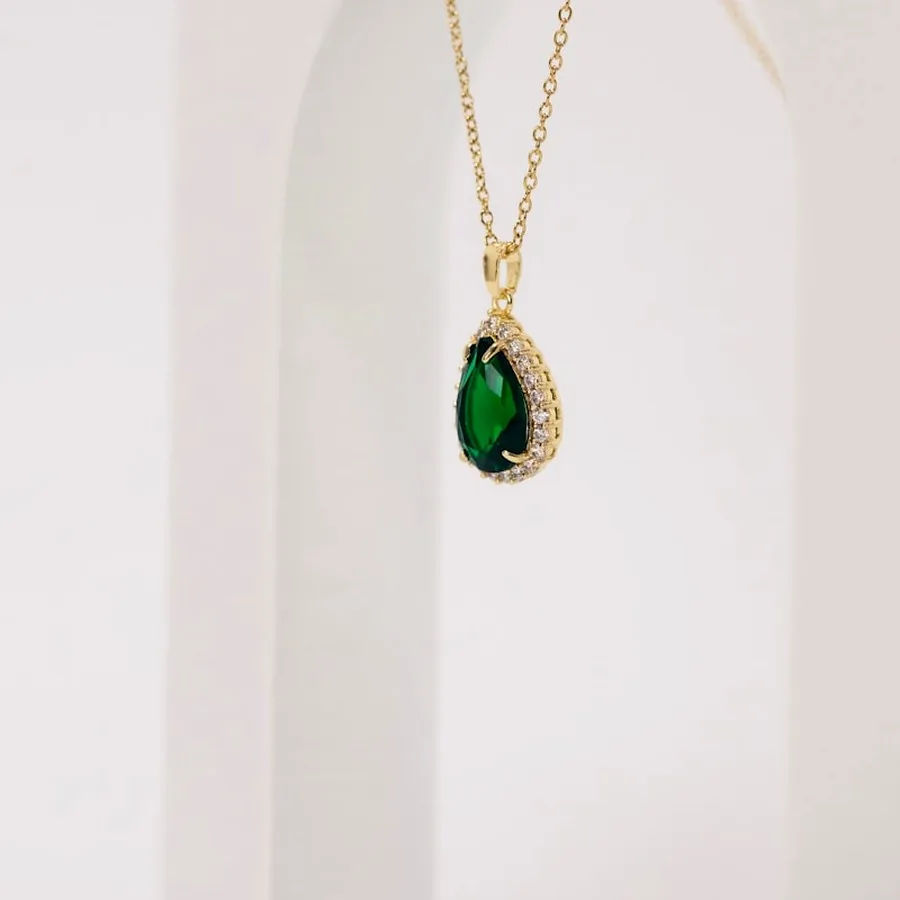
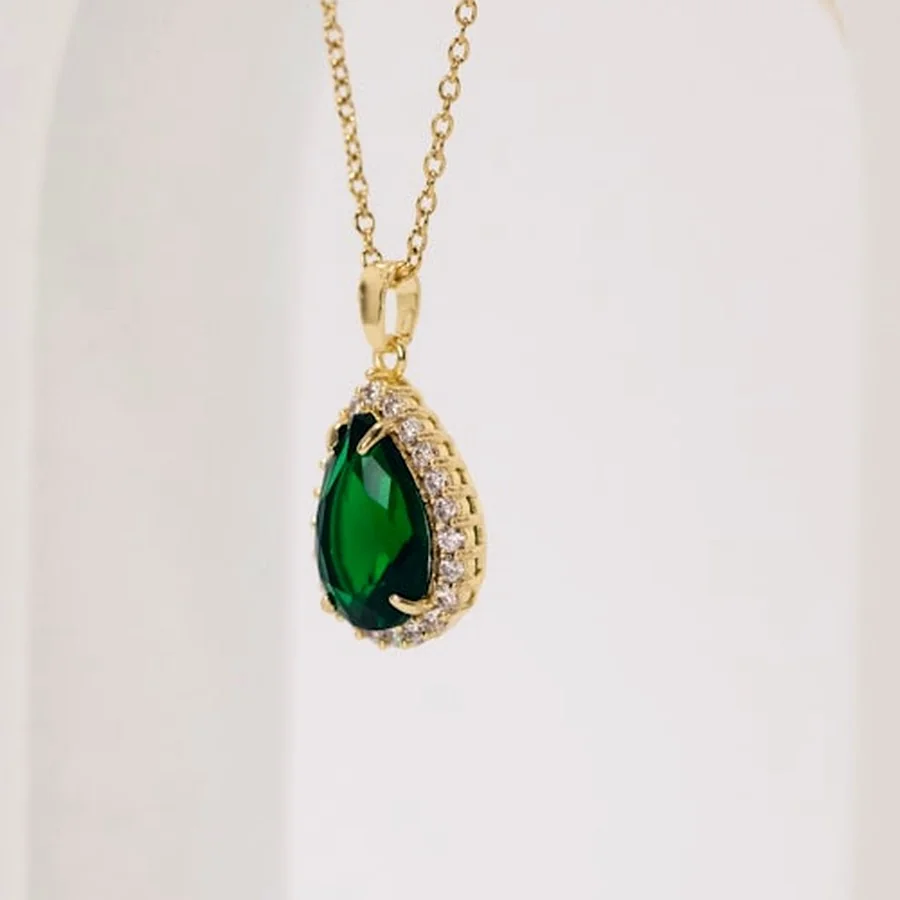
Premium visual refinement pass (no new functionality)
- Hero: tighter, more dramatic crop of the pendant (was lost in empty
  background); subtle reveal animation on load.
- Storytelling: one short emotional line under the Hero, bridging the
  brand promise and the catalog, set in italic display type with a
  small gold rule accent.
- "Ver Detalle": replaced the underlined text-link with a tracked
  label + gold arrow that shifts on hover — reads as an invitation,
  not a blog link.
- "Solicitar Información": border recolored from neutral gray to the
  brand's gold, with a soft hover lift matching the primary button's
  language.
- Logo: extracted a clean icon-only mark (the three emeralds + peaks)
  from the source logo for header/favicon use — the full lockup's
  script and subtext were illegible at that size.
- Fixed an orphaned "·" separator trailing the brand-pillars row.
- Desktop: Home hero now splits into a real two-column layout (copy
  left, large image right) instead of a centered column swimming in
  unused side margins — same generous whitespace rhythm, now put to
  use rather than left empty. Mobile order unaffected (flex `order`
  via a `display:contents` wrapper keeps the original stacked flow).

diff --git a/css/styles.css b/css/styles.css
@@ -69,7 +69,7 @@ input, textarea { font-family: inherit; font-size: 15px; }
   display: flex; align-items: center; justify-content: space-between;
 }
 .brand { display: flex; align-items: center; gap: 10px; }
-.brand-logo { width: 32px; height: 32px; object-fit: contain; border-radius: 50%; }
+.brand-logo { width: 36px; height: 36px; object-fit: contain; border-radius: 7px; }
 .brand-name { font-family: var(--font-display); font-weight: 700; font-size: 17px; color: var(--emerald-dark); }
 
 .top-nav { display: none; gap: 8px; }
@@ -101,39 +101,65 @@ main { max-width: var(--container); margin: 0 auto; padding: 0 22px; }
 .btn {
   display: inline-flex; align-items: center; justify-content: center; gap: 8px;
   font-weight: 600; font-size: 15px; letter-spacing: 0.01em;
-  padding: 15px 30px; border-radius: 100px; transition: transform .2s var(--ease), box-shadow .2s ease, opacity .2s ease;
+  padding: 15px 30px; border-radius: 100px;
+  transition: transform .3s var(--ease), box-shadow .35s var(--ease), border-color .3s ease, background .3s ease, color .3s ease;
 }
-.btn:active { transform: scale(0.97); }
+.btn:active { transform: scale(0.96); transition-duration: .12s; }
 .btn-primary {
   color: #fff; background: linear-gradient(120deg, var(--emerald-bright), var(--emerald-dark));
   box-shadow: var(--shadow-soft);
 }
-.btn-primary:hover { box-shadow: var(--shadow-lift); }
+.btn-primary:hover { box-shadow: var(--shadow-lift); transform: translateY(-1px); }
 .btn-outline {
-  color: var(--emerald-dark); background: transparent; border: 1.5px solid var(--gray-light);
+  color: var(--emerald-dark); background: transparent; border: 1.5px solid var(--gold-light);
 }
-.btn-outline:hover { border-color: var(--emerald-bright); color: var(--emerald-bright); }
+.btn-outline:hover {
+  border-color: var(--emerald-bright); color: var(--emerald-bright);
+  background: rgba(30,135,104,0.05); box-shadow: var(--shadow-soft); transform: translateY(-1px);
+}
 .btn-block { width: 100%; }
 
 /* ---------- HOME / HERO ---------- */
 .hero { padding: 56px 0 40px; text-align: center; display: flex; flex-direction: column; align-items: center; }
+.hero-copy { display: contents; }
+
 .hero-eyebrow {
+  order: 1;
   font-size: 12.5px; font-weight: 600; letter-spacing: 0.24em; text-transform: uppercase;
   color: var(--gold); margin: 0 0 18px;
 }
 .hero-title {
+  order: 2;
   font-size: clamp(2.6rem, 11vw, 3.6rem); line-height: 1.02; font-style: normal;
   margin: 0 0 20px;
 }
 .hero-sub {
+  order: 3;
   font-size: 16px; line-height: 1.7; color: var(--gray); max-width: 34ch; margin: 0 0 40px;
 }
 
 .hero-visual {
-  width: min(280px, 70vw); height: 280px; margin-bottom: 44px; border-radius: var(--radius);
+  order: 4;
+  width: min(300px, 74vw); height: 300px; margin-bottom: 40px; border-radius: var(--radius);
   overflow: hidden; box-shadow: var(--shadow-lift);
+  opacity: 0; transform: scale(0.96); animation: hero-reveal 1s var(--ease) .25s forwards;
 }
 .hero-visual .photo-img { width: 100%; height: 100%; object-fit: cover; display: block; }
+@keyframes hero-reveal { to { opacity: 1; transform: scale(1); } }
+@media (prefers-reduced-motion: reduce) { .hero-visual { animation: none; opacity: 1; transform: none; } }
+
+.hero-copy .btn-primary { order: 5; }
+
+.hero-story {
+  order: 6;
+  font-family: var(--font-display); font-style: italic; font-weight: 500;
+  font-size: 1.05rem; line-height: 1.6; color: var(--emerald-dark);
+  max-width: 30ch; margin: 30px 0 0; position: relative; padding-top: 22px;
+}
+.hero-story::before {
+  content: ''; position: absolute; top: 0; left: 50%; transform: translateX(-50%);
+  width: 34px; height: 1.5px; background: var(--gold);
+}
 
 .marquee-row {
   display: flex; gap: 14px; flex-wrap: wrap; justify-content: center;
@@ -142,7 +168,9 @@ main { max-width: var(--container); margin: 0 auto; padding: 0 22px; }
 .marquee-row span {
   font-size: 11.5px; font-weight: 600; letter-spacing: 0.14em; text-transform: uppercase; color: var(--gray);
 }
-.marquee-row span:nth-child(even) { color: var(--gold-light); }
+.marquee-row span:not(:last-child)::after {
+  content: '·'; margin-left: 14px; color: var(--gold-light); font-weight: 700;
+}
 
 /* ---------- COLECCIÓN ---------- */
 .section-intro { padding: 48px 0 30px; text-align: center; }
@@ -163,10 +191,13 @@ main { max-width: var(--container); margin: 0 auto; padding: 0 22px; }
 .product-copy .p-name { font-family: var(--font-display); font-weight: 700; font-size: 17px; margin-bottom: 4px; }
 .product-copy .p-price { font-size: 14px; font-weight: 600; color: var(--gold); margin-bottom: 14px; }
 .product-copy .p-btn {
-  font-size: 12.5px; font-weight: 700; letter-spacing: 0.06em; text-transform: uppercase;
-  color: var(--emerald-dark); padding: 6px 0; border-bottom: 1.5px solid var(--emerald-dark);
-  display: inline-block;
+  display: inline-flex; align-items: center; gap: 7px;
+  font-size: 11.5px; font-weight: 700; letter-spacing: 0.14em; text-transform: uppercase;
+  color: var(--emerald-dark); transition: color .3s ease, gap .3s ease;
 }
+.p-btn-arrow { display: inline-block; color: var(--gold); transition: transform .3s var(--ease); }
+.product-card:hover .p-btn { color: var(--gold); gap: 11px; }
+.product-card:hover .p-btn-arrow { transform: translateX(3px); }
 
 /* ---------- PRODUCTO ---------- */
 .back-link {
@@ -267,10 +298,18 @@ main { max-width: var(--container); margin: 0 auto; padding: 0 22px; }
    ======================================================== */
 @media (min-width: 1200px) {
   :root { --container: 1120px; }
-  .hero { padding: 120px 0 70px; }
+
+  .hero {
+    display: grid; grid-template-columns: 1fr 1fr; align-items: center;
+    gap: 70px; padding: 110px 0 90px; text-align: left;
+  }
+  .hero-copy { display: flex; flex-direction: column; align-items: flex-start; }
   .hero-title { font-size: 4.4rem; }
   .hero-sub { font-size: 17.5px; }
-  .hero-visual { width: 360px; height: 360px; }
+  .hero-story { padding-left: 0; }
+  .hero-story::before { left: 0; transform: none; }
+  .hero-visual { width: 100%; height: 460px; margin-bottom: 0; }
+
   .product-grid { grid-template-columns: repeat(3, 1fr); gap: 28px; }
   .section-intro { padding: 70px 0 40px; }
 }

diff --git a/index.html b/index.html
@@ -6,7 +6,7 @@
 <title>Los Andes Joyería · Creamos tu Joya</title>
 <meta name="description" content="Los Andes Joyería — Esmeraldas colombianas. Creamos tu joya.">
 <meta name="theme-color" content="#F8F9F8">
-<link rel="icon" href="assets/logos/losandes-logo.png">
+<link rel="icon" href="assets/logos/losandes-icon.png">
 <link rel="preconnect" href="https://fonts.googleapis.com">
 <link rel="preconnect" href="https://fonts.gstatic.com" crossorigin>
 <link href="https://fonts.googleapis.com/css2?family=Playfair+Display:ital,wght@0,600;0,700;1,500&family=Poppins:wght@300;400;500;600;700&display=swap" rel="stylesheet">
@@ -19,7 +19,7 @@
 <header class="site-header">
   <div class="header-inner">
     <a class="brand" href="#" data-nav="home">
-      <img src="assets/logos/losandes-logo.webp" alt="Los Andes Joyería" class="brand-logo">
+      <img src="assets/logos/losandes-icon.webp" alt="Los Andes Joyería" class="brand-logo">
       <span class="brand-name">Los Andes</span>
     </a>
     <nav class="top-nav" aria-label="Navegación principal">
@@ -35,20 +35,22 @@
   <!-- ============ HOME ============ -->
   <section class="view active-view" id="view-home" data-view="home">
     <div class="hero">
-      <p class="hero-eyebrow">Esmeraldas Colombianas</p>
-      <h1 class="hero-title">Creamos<br>tu Joya</h1>
-      <p class="hero-sub">Piezas en oro con esmeraldas certificadas de origen colombiano, diseñadas para durar toda una vida.</p>
+      <div class="hero-copy">
+        <p class="hero-eyebrow">Esmeraldas Colombianas</p>
+        <h1 class="hero-title">Creamos<br>tu Joya</h1>
+        <p class="hero-sub">Piezas en oro con esmeraldas certificadas de origen colombiano, diseñadas para durar toda una vida.</p>
+        <button class="btn btn-primary" data-nav="coleccion">Explorar Colección</button>
+        <p class="hero-story">Cada joya celebra un momento que merece ser recordado.</p>
+      </div>
 
       <div class="hero-visual" id="hero-visual" aria-hidden="true"></div>
-
-      <button class="btn btn-primary" data-nav="coleccion">Explorar Colección</button>
     </div>
 
     <div class="marquee-row" aria-hidden="true">
-      <span>Origen Muzo</span><span>·</span>
-      <span>Oro 18k</span><span>·</span>
-      <span>Piedras Certificadas</span><span>·</span>
-      <span>Diseño a la Medida</span><span>·</span>
+      <span>Origen Muzo</span>
+      <span>Oro 18k</span>
+      <span>Piedras Certificadas</span>
+      <span>Diseño a la Medida</span>
     </div>
   </section>
 

diff --git a/js/app.js b/js/app.js
@@ -76,7 +76,7 @@ function renderGrid() {
       '<div class="product-copy">' +
         '<p class="p-name">' + p.name + '</p>' +
         '<p class="p-price">' + p.price + '</p>' +
-        '<span class="p-btn">Ver Detalle</span>' +
+        '<span class="p-btn">Ver Detalle <span class="p-btn-arrow">&#8594;</span></span>' +
       '</div>';
     card.addEventListener('click', function () { openProduct(p.id); });
     grid.appendChild(card);
